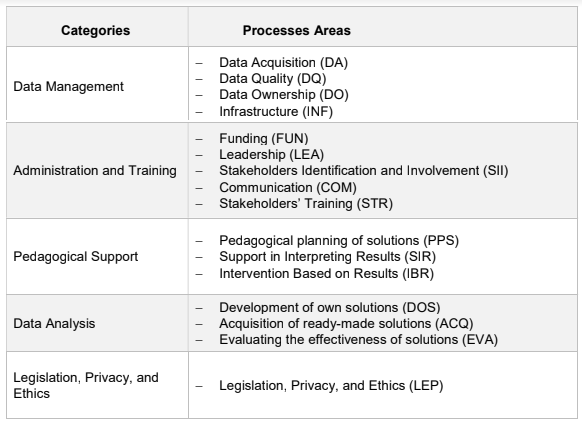
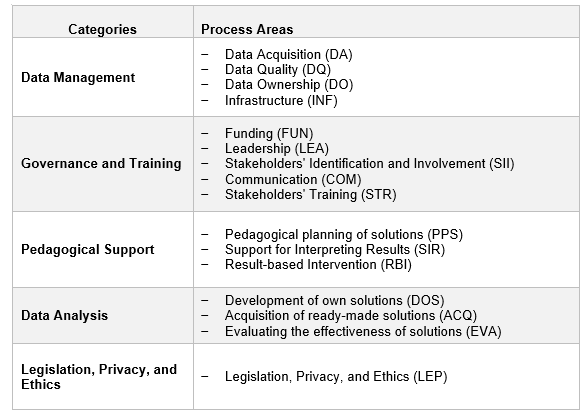
change of messages and exchanged tWork for tExampl

Changed region(s): [[0.0, 0.0, 1.0, 1.0], [0.3711, 0.878, 0.7732, 0.9366]]

diff --git a/src/components/layout/LayoutProcessArea.vue b/src/components/layout/LayoutProcessArea.vue
@@ -34,20 +34,20 @@
                 </span>
                 <LayoutMaturityLevel tCard="danger"  nLevel="1" dLevel="Ad hoc"
                   :tLevel="processAera.level01" 
-                  :tWork="processAera.level01Examples" 
-                  :tExample="processAera.level01WorkProducts"/>
+                  :tExample="processAera.level01Examples" 
+                  :tWork="processAera.level01WorkProducts"/>
                 <LayoutMaturityLevel tCard="warning" nLevel="2" dLevel="Initial" 
                   :tLevel="processAera.level02" 
-                  :tWork="processAera.level02Examples" 
-                  :tExample="processAera.level02WorkProducts"/>
+                  :tExample="processAera.level02Examples" 
+                  :tWork="processAera.level02WorkProducts"/>
                 <LayoutMaturityLevel tCard="primary" nLevel="3" dLevel="Structured" 
                   :tLevel="processAera.level03" 
-                  :tWork="processAera.level03Examples" 
-                  :tExample="processAera.level03WorkProducts"/>
+                  :tExample="processAera.level03Examples" 
+                  :tWork="processAera.level03WorkProducts"/>
                 <LayoutMaturityLevel tCard="success" nLevel="4" dLevel="Systematic" 
                   :tLevel="processAera.level04" 
-                  :tWork="processAera.level04Examples" 
-                  :tExample="processAera.level04WorkProducts"/>
+                  :tExample="processAera.level04Examples" 
+                  :tWork="processAera.level04WorkProducts"/>
               </p>
             </div>
           </div>

diff --git a/src/pages/Main.vue b/src/pages/Main.vue
@@ -52,7 +52,7 @@
                   </td>
                 </tr>    
                 <tr>
-                  <td>Administration and Training</td>
+                  <td>Governance and Training</td>
                   <td>
                     <ul>
                       <li>Funding (FUN)</li>
@@ -68,7 +68,7 @@
                   <td>
                     <ul>
                       <li>Pedagogical planning of solutions (PPS)</li>
-                      <li>Support in Interpreting Results (SIR)</li>
+                      <li>Support for Interpreting Results (SIR)</li>
                       <li>Result-based Intervention(RBI)</li>
                     </ul>
                   </td>
